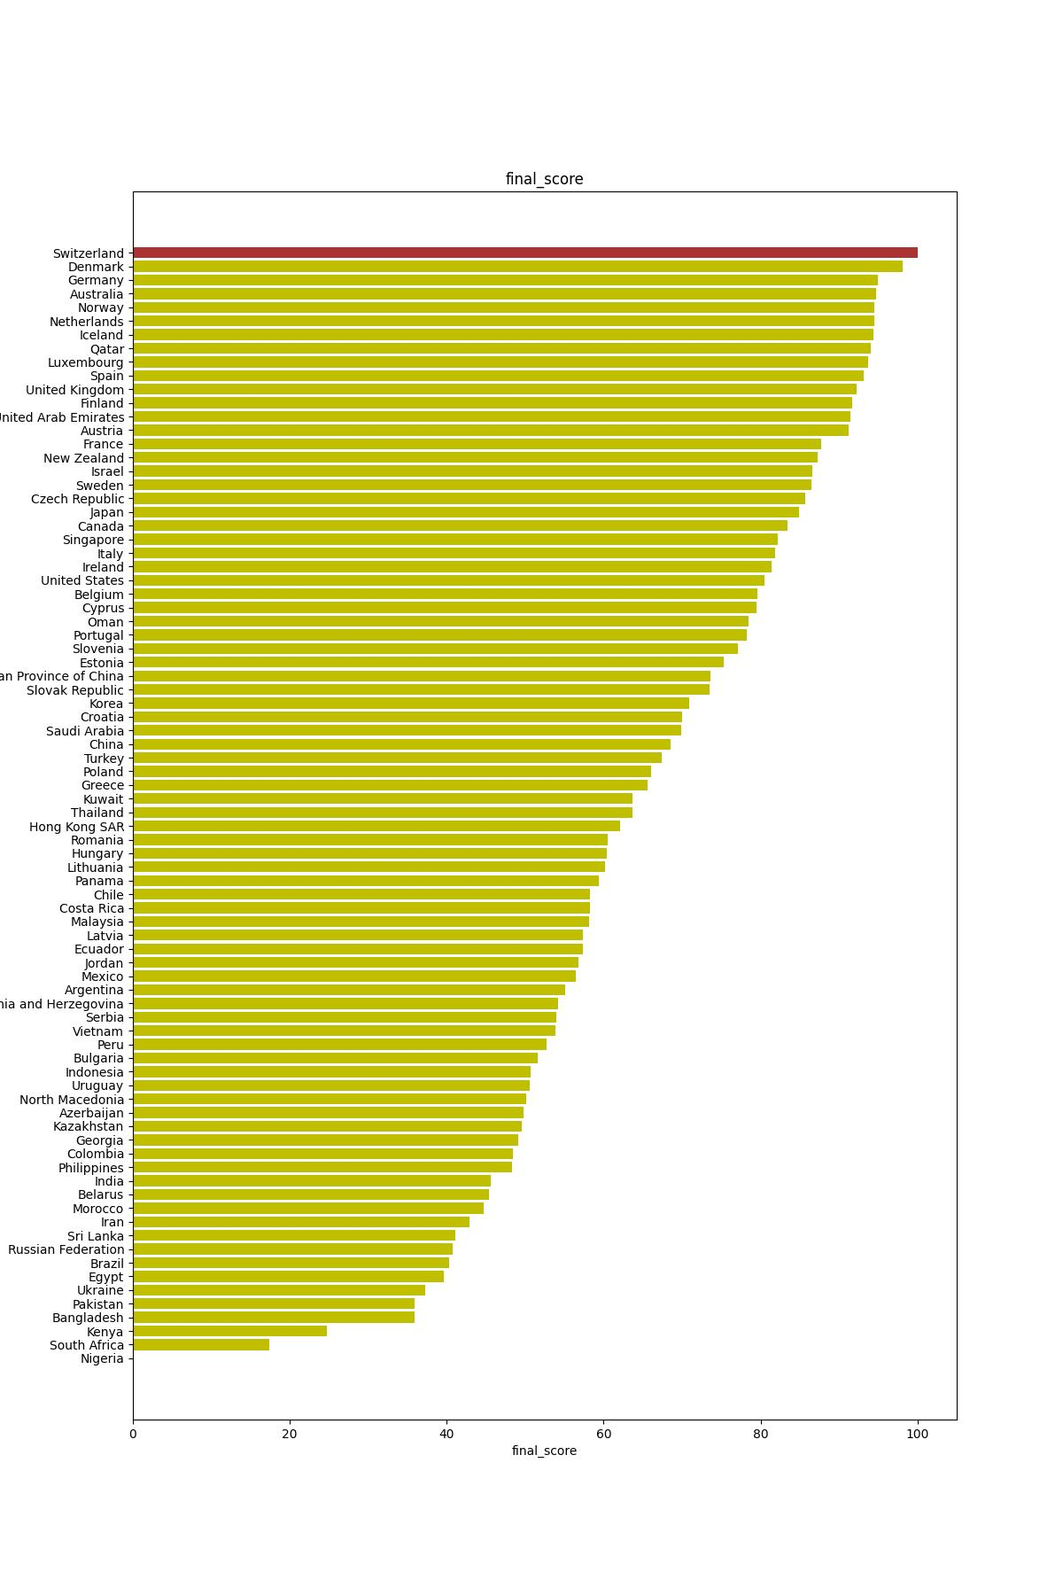
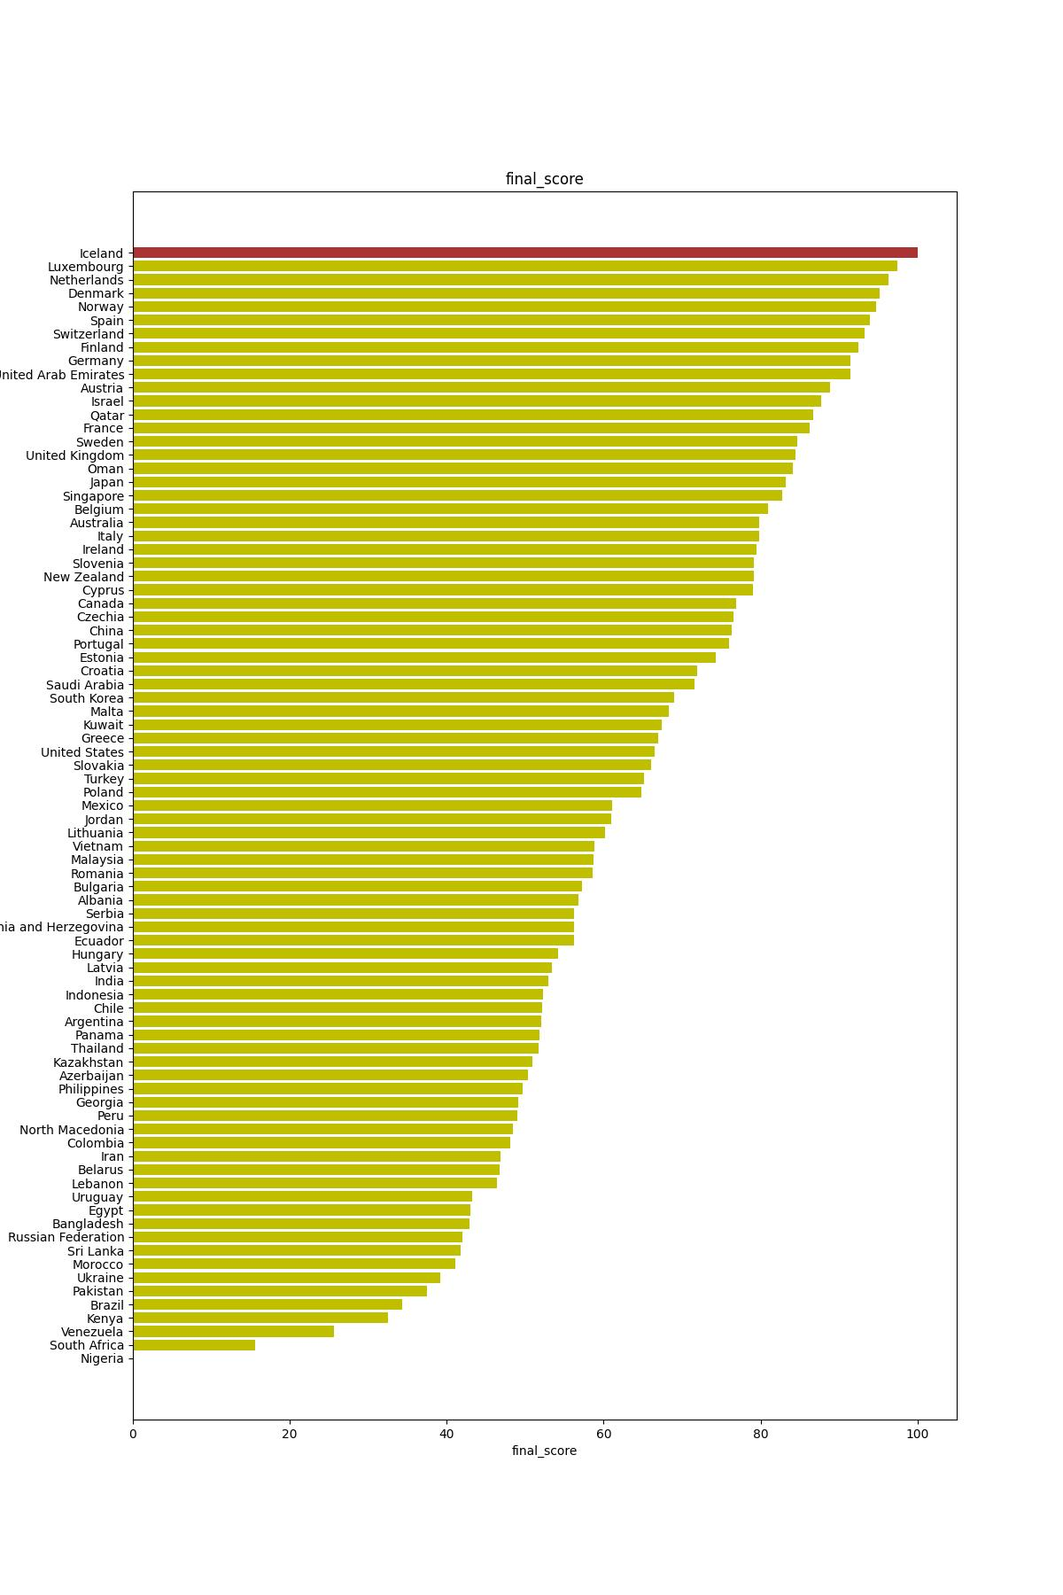
standings and readme update

Changed region(s): [[0.0, 0.1556, 0.8633, 0.84]]

diff --git a/README.md b/README.md
@@ -14,26 +14,119 @@
 
 <summary> Таблица источников</summary>
 
-| Показытель         | Год актуальности | Источник                                                                                                                       |
+| Показатель         | Год актуальности | Источник                                                                                                                       |
 |--------------------|------------------|--------------------------------------------------------------------------------------------------------------------------------|
-| gdp ppp            | 2024 start-year  | https://www.imf.org/external/datamapper/PPPPC@WEO/OEMDC/ADVEC/WEOWORLD                                                         |
+| gdp ppp_per_cap    | 2023             | https://www.imf.org/external/datamapper/PPPPC@WEO/OEMDC/ADVEC/WEOWORLD                                                         |
 | homicide rate      | 2018             | https://dataunodc.un.org/content/homicide-rate-option-2                                                                        |
 | numbeo             | 2023 mid-year    | https://www.numbeo.com/quality-of-life/rankings_by_country.jsp                                                                 |
 | suicide rate       | 2019             | https://apps.who.int/gho/data/node.main.MHSUICIDEASDR?lang=en                                                                  |
-| life expectancy    | 2020 end-year    | https://apps.who.int/gho/data/node.main.688                                                                                    |
-| happiness index    | 2021             | https://worldhappiness.report/ed/2021/#appendices-and-data                                                                     |
+| life expectancy    | 2019             | https://apps.who.int/gho/data/node.main.688                                                                                    |
+| happiness index    | 2022             | https://worldhappiness.report/ed/2023/#appendices-and-data                                                                     |
 | unesco objects     | 2023             | https://en.wikipedia.org/wiki/World_Heritage_Sites_by_country                                                                  |
 | median age         | 2022             | https://population.un.org/wpp/Download/Files/1_Indicators%20(Standard)/EXCEL_FILES/1_Population/WPP2019_POP_F05_MEDIAN_AGE.xlsx |
-| gini               | 2022             | https://data.worldbank.org/indicator/SI.POV.GINI/                                                                              |
+| gini               | 2022 - частично  | https://data.worldbank.org/indicator/SI.POV.GINI/                                                                              |
 | incarceration rate | 2023 mid-year    | https://www.prisonstudies.org/highest-to-lowest/prison_population_rate?field_region_taxonomy_tid=All                           |
-
+| gender_gap         | 2021             | https://en.wikipedia.org/wiki/Global_Gender_Gap_Report                                                                          |
+| press_freedom      | 2023             | https://rsf.org/en/index?year=2023                                                                                              |
 
 </details>
 
+<details>
+<summary> Описание показателей </summary>
+
+
+`gdp_ppp_per_cap` - есть 2 основных источника: IMF и WorldBank. Есть ещё CIA, но они выходят реже. WorldBank для РФ и
+Украины при определении суммарного gdp опирается на внутреннюю статистику государств.
+Видимо, чтобы быть ближе к реальности. Для подушевого gdp разница не такая уж большая. К тому же, расчёт паритета сам
+по себе не обладает большой точностью. Я использую IMF, просто по традиции.
+В рассчёт ВВП не входит теневая экономика. Он бы очень сдвинул показатели. Но я сомневаюсь, что кто-то в мире
+может сделать этот расчё во-первых хорошо, во-вторых не ангажировано. 
+Документ от IMF включает в себя года из будущего. Это, естественно, прогноз.<br><br>
+
+`homicide rate` - устаревший. Но, по крайней мере, это ООН. Понятно, что статистику тоже можно обелить, выпиливая
+случаи убийств в смежные области, например, в несчастные случаи. Или просто оставить пропавшими без вести.
+Данные взяты из итерации 2022 года без изменений
+
+`numbeo` - есть нюансы: данные берутся за последний год(по возможности), в странах различное покрытие интернетом, etc
+
+`suicide rate` - устаревший, доковидный. Данные взяты из итерации 2022 года без изменений. Данные ВОЗ будут отличаться от
+внутрероссийских из-за того, что они, видимо, включают смертность от «повреждений с неопределенными намерениями» 
+(рубрики Y10-Y34 Международной классификации болезней и причин смерти). А также потому что это age-standardized статистика.
+У РФ, кстати, [неплохое качество](https://www.who.int/teams/mental-health-and-substance-use/data-research/suicide-data-quality)
+данных по мнению ВОЗ. 
+Методология очень запутанная. Во многом опирается на estimations, иногда полученные на основе похожих стран.
+Ну вы поняли...
+
+<details><summary>Методология с сайта</summary>
+
+Method of estimation:
+The estimates are derived from the WHO Global Health Estimates (GHE) 2015. 
+Detailed methods are available here, and summarized below. All-cause mortality rates by age and sex for WHO Member States
+are derived from life tables which draw on UN World Population Prospects 2015 revision, 
+recent and unpublished analyses of all-cause and HIV mortality for countries with high HIV prevalence,
+vital registration data, and estimates of child mortality from UN Inter-agency Group for Child Mortality Estimation. 
+Cause-of-death distributions are estimated from death registration data when available; 
+assessed and adjusted for completeness and ill-defined categories. 
+Selected specific causes are based on WHO and UN Interagency estimation processes, which made use of epidemiological studies, 
+disease registers and notifications systems. Other causes of death for populations without useable death-registration 
+data are estimated, drawing on updated IHME single-cause analyses from the Global Burden of Disease (GBD) 2015 study,
+which made use of available death registration data as well as other sources of information on deaths,
+covariate regression modelling, and patterns of causes of death for similar countries. These estimates represent the best 
+estimates of WHO, computed using standard categories, definitions and methods to ensure cross-country comparability,
+and may not be the same as official national estimates. 
+Due to changes in input data and methods, GHE2015 are not comparable to previously published WHO estimates. 
+</details>
+
+`life expectancy` - оставил данные за 2019 год. Провайдеров данных много, есть и более поздние данные, но влияние Covid
+очень существенное. Восстановление ОПЖ увидим в 2023 году, поэтому брать 2022 и, тем более 2021, смысла пока нет. Данные
+ВОЗ основываются на статистике, предоставляемой странами-участницами программы VR (Vital Registration). Это 77 стран, 
+что вполне достаточно для целей данного проекта. Для стран-участниц VR всё же делается оценки корректировки для старшего 
+поколения из-за неполноты информации в данной группе. Но не думаю, что эти оценки могут существенно сдвинуть показатели.
+Для стран вне VR данные делаются оценочно. 
+
+`happiness index` - результаты отчёта 2023 года получены усреднением за 3 последних года (2020 - 2023),
+хотя данные по отдельным годам также присутствуют. При этом данные за последние 3 года есть далеко не у всех стран.
+Источник данных - опросы Gallup. В опросе учавствуют ~1000 респондентов на страну. 
+Индекс рассчитывается усреднением оценок удовлетворённости респондентов своей жизнью по 10-бальной шкале. Есть также
+ряд вспомогательных индексов, к. используются в попытках разложить базовый индекс на составляющие для того, чтобы 
+объяснить, что именно привело к такому уровню удовлетворённости. Интересно, что под соц. поддержкой понимается не
+пенсии или прочие пособия, а утвердительный ответ на вопрос
+> If you were in trouble, do you have relatives or friends you can count on to help you whenever you need them, or not
+
+Индекс коррупции тоже максимально странный. Таджикистан на 17 месте между Австрией и Бельгией.
+
+`median age` - оставил данные за 2020 год. можно по-другому назвать молодость нации.
+я взял равным 30 исключительно из субъективных соображений. Более молодые нации имеют иждивенцев внизу
+половозрастной пирамиды, более старые вверху. Можно было бы взять 35 лет, но всё же у более молодых стран больше надежды.
+Ссылка в источниках устарела, UN не смог в обратную совместимость - файл можно найти через гугл по названию. 2020 год, 
+п.ч. статистика даётся по пятилеткам. В World Population Prospects 2022 они перешли к погодовой статистике. Для рассчёта
+показателей фертильности, смертности, миграции UN использует переписи, опросы и статистику VR (Vital Registration).
+Для медианного возраста методолгию найти не удалось 
+
+`gini` - очень не полный. за 22 год всего 7 наблюдений. Заполняю предыдущими значениями. Зато, в отличии от данных,
+у World Bank хорошее [описание методологии](https://databank.worldbank.org/metadataglossary/gender-statistics/series/SI.POV.GINI).
+Источником данных служат национальные статистические агенста и собственные опросы World Bank. Для развитых стран 
+используется `Luxembourg Income Study database`. Огранчения индекса хорошо описаны на страничке с методологией.
+Пустые значения добираются из прошлых лет и со сторонних сайтов: WB не единственный источник.
+
+`incarceration rate` - аккумулируется организацией World Prison Brief. Хостят базу ребята на серверах 
+Birkbeck, University of London, степень аффиляци не понятна. Данные собираются с
+> largely derived from governmental or other official sources
+
+Файл разбивает UK на несколько субъектов и Боснию и Герцеговину. Заменяю взвешенной суммой по регионам, иначе 
+метчинг плохо проходит
+
+`gender_gap` - составитель Всемирный Экономический Форум. Есть и более поздние годы, но уже без РФ - 
+поэтому использую 2021. Сам отчёт в pdf, поэтому приходится парсить wiki. 
+Индекс составной и содержит 4 составляющих: экономическое участие, доступность обучения, здоровье,
+политическая включённость. Источники: International Labour Organisation, ВОЗ, Всемирный Банк, Юнеско, ВЭФ.
+Методологию можно посмотреть в Appendix B внутри отчёта - она расписана достаточно подробно.
+
+</details>
 
 <details>  
 
-<summary> Сумбурная критика показателей  </summary> 
+<summary> Критика показателей  </summary> 
 
 **Numbeo** отличный бейзлайн, но у него есть следующие недостатки
 
@@ -76,10 +169,16 @@
 
 **Отклонённые показатели**
 
-`Median Wealth per adult от Credit Suisse` - 3K$ для РФ не покрывает даже недвижимость. 
-Сложно не поверить в теории заговора, глядя на эти цифры 
+`Median Wealth per adult от Credit Suisse` - 3K$ для РФ не покрывает даже недвижимость. Хотя медианное благосостояние
+действительно низкое. Сложно не поверить в теории заговора, глядя на эти цифры. 
+upd: после краха CreditSuisse и включения в UBS статистика стала поадекватней. Но, потратив на поиск методологии около 
+часа, я так и не смог найти: отчёт ссылается на другой отчёт HBS от OECD. Уже над статистикой из отчёта HBS проводятся 
+какие-то манипуляции, описанные в отдельном paper. Статистика считается на основе финансовых показателей и стоимости
+недвиги. При этом стоимость недвиги покрыта для не очень большого числа стран. Да и финансовыми показателями покрыта
+только 51 страна. Для остальных используется `standard econometric technics`.  
 
-`уровеь безработицы` - умеют считать нормально только развитые бюрократии, к. не так чтобы много.
+`уровеь безработицы` - умеют считать нормально только развитые бюрократии, к. не так чтобы много. Возможо, и
+они не умеют
 
 </details>
 
@@ -104,10 +203,10 @@
 Внутри `making_data` [парсится](https://github.com/PVGorshenin/country_comparison/tree/making_data/get_data/parse), что доступно парсингу.
 Excel файлы пинаются костылём в `data/input/<year>`.
 
-Далее файлы обрабатываются ноутбуками 
-[здесь](https://github.com/PVGorshenin/country_comparison/tree/making_data/notebook).
+Далее файлы обрабатываются в скриптах 
+[здесь](https://github.com/PVGorshenin/country_comparison/tree/making_data/processing).
 Финальный результат, сметчинных показателей хранится 
-[здесь](https://github.com/PVGorshenin/country_comparison/blob/making_data/data/result/mega_table.csv). 
+[здесь](https://github.com/PVGorshenin/country_comparison/blob/making_data/data/result/2023/). 
 В main этот файл попадает без мёрджа через checkout из making_data.
 
 ### Запуск
